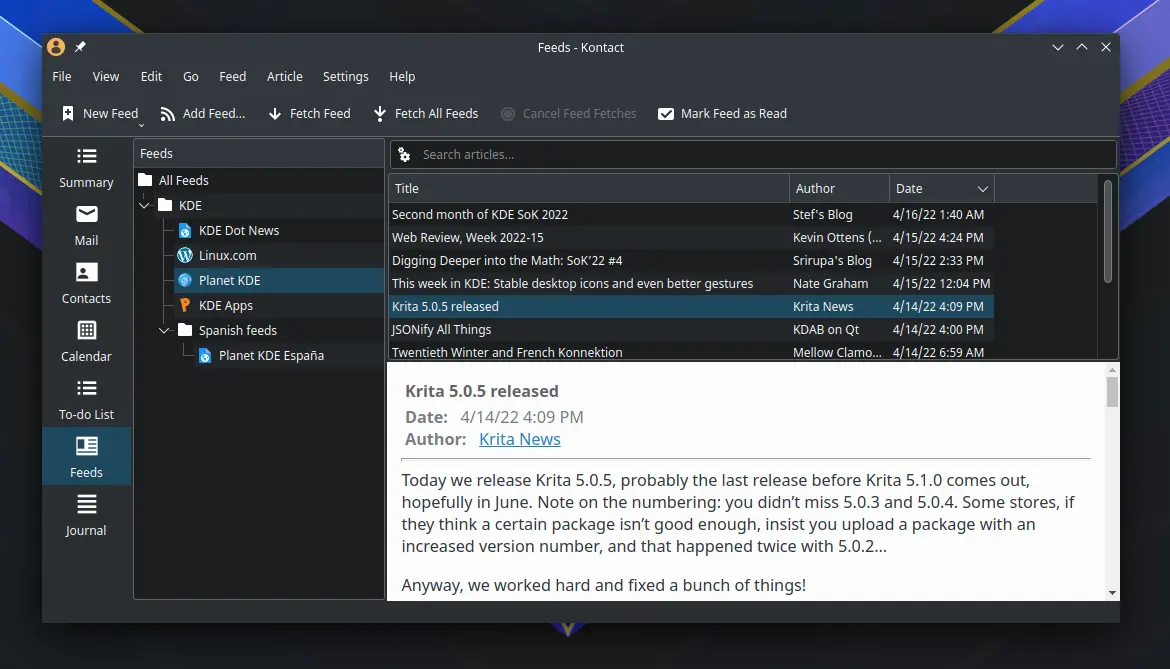
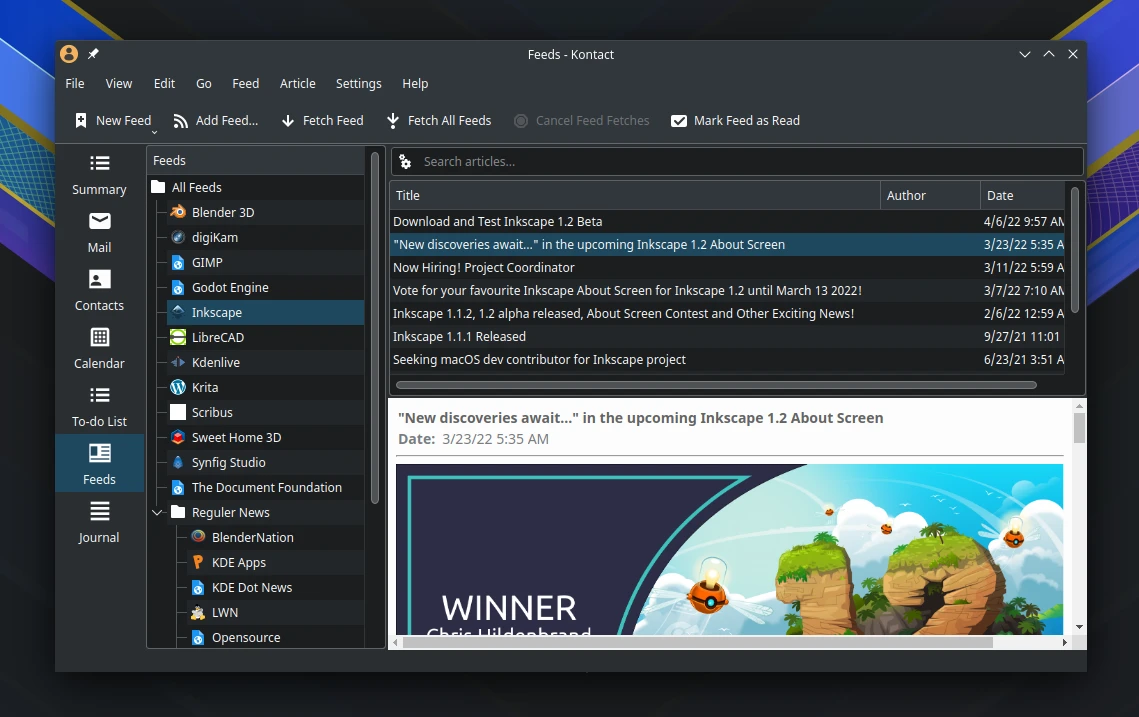
add: update l7-akregrator

diff --git a/src/aplikasi/produktifitas/kontact.md b/src/aplikasi/produktifitas/kontact.md
@@ -20,10 +20,8 @@ Pasang konfigurasi tambahan.
 
 ```
 doas xbps-install -Sy l7-kmail l7-korganizer l7-akregator
-
-cp -rfv /etc/skel/.config/kmail2rc ~/.config/
-cp -rfv /etc/skel/.config/korgacrc ~/.config/
-cp -rfv /etc/skel/.config/akregatorrc ~/.config/
+cp -rfv /etc/skel/.config/{kmail2rc,korgacrc,akregatorrc} ~/.config/
+cp -rfv /etc/skel/.local/share/akregator/ ~/.local/share/
 ```
 
 Konfigurasi tersebut yaitu menambahkan beberapa pengaturan dasar:
@@ -33,7 +31,8 @@ Konfigurasi tersebut yaitu menambahkan beberapa pengaturan dasar:
 - Mode membaca email disebelah kanan.
 - Mengaktifkan **batal kirim** email selama 10 detik pertama.
 - Mengaktifkan autostart untuk KOrganizer.
-- Menambahkan ukuran font untuk akregator.
+- Memperbesar ukuran font untuk akregator.
+- Menambahkan daftar feed yang relevan.
 
 ## Integrasi aplikasi
 
